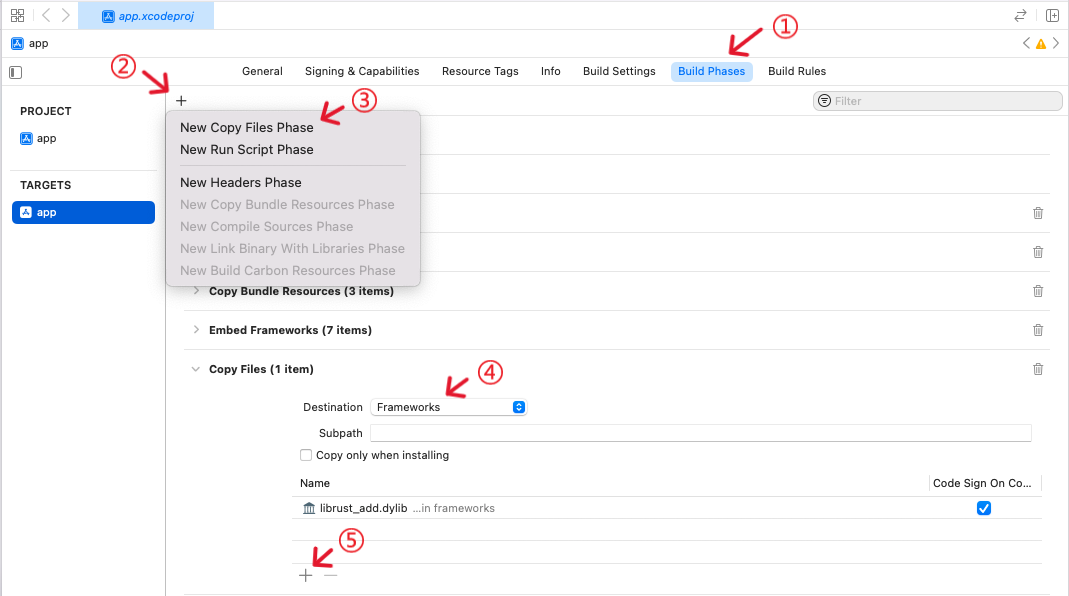
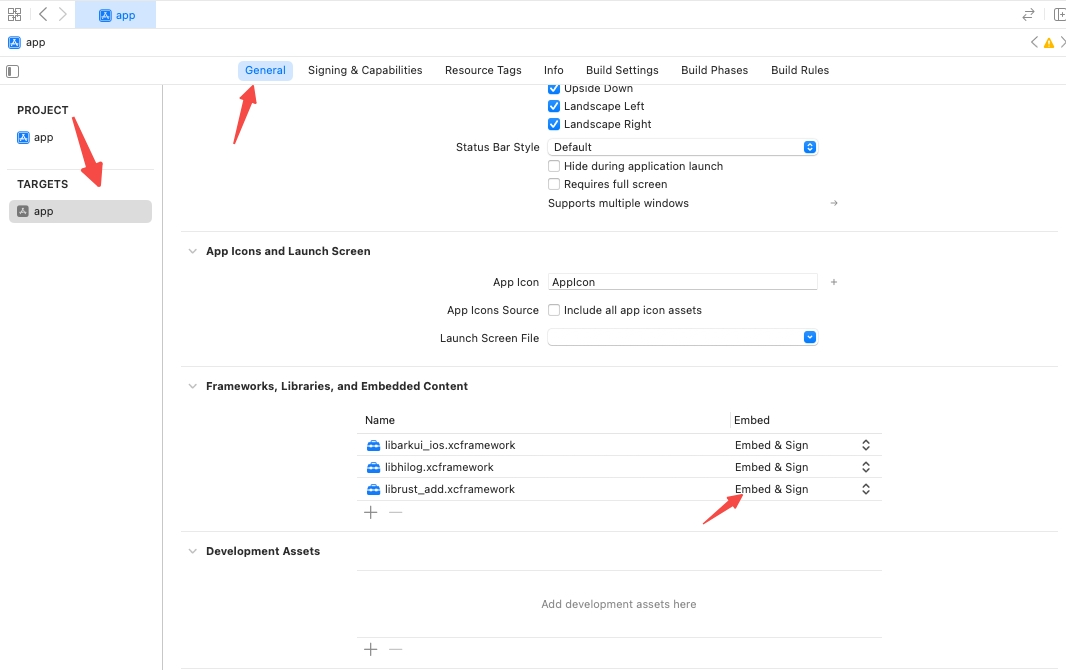
添加将librust_add.dylib转换为xcframework方法

diff --git a/RustFeature/Rust/RustDev/README.md b/RustFeature/Rust/RustDev/README.md
@@ -418,7 +418,7 @@ fn main() {
         let framework_dir = Path::new(&manifest_dir)
             .join("../RustDev/.arkui-x/ios/frameworks/libarkui_ios.xcframework");
 
-        let platform_subdir = if target.contains("simulator") {
+        let platform_subdir = if target.contains("sim") {
             "ios-arm64_x86_64-simulator"
         } else {
             "ios-arm64"
@@ -449,19 +449,91 @@ cargo build --target aarch64-apple-ios --release
 rust工程/target/aarch64-apple-ios/release/librust_add.dylib
 ```
 
+生成模拟器dylib文件：
+
+``````shell
+cargo build --target aarch64-apple-ios-sim --release
+``````
+
+设置加载路径：
+
+``````shell
+# ios
+install_name_tool -id "@rpath/librust_add.framework/librust_add" \
+    target/aarch64-apple-ios/release/librust_add.dylib
+# sim
+install_name_tool -id "@rpath/librust_add.framework/librust_add" \               
+    target/aarch64-apple-ios-sim/release/librust_add.dylib
+``````
+
+生成framework文件：
+
+``````shell
+mkdir -p librust_add.framework # 创建真机framework
+cp target/aarch64-apple-ios/release/librust_add.dylib \
+   librust_add.framework/librust_add # 将真机的dylib复制到framework文件夹内，注意去掉.dylib后缀
+mkdir -p sim/librust_add.framework # 创建模拟器framework
+cp target/aarch64-apple-ios-sim/release/librust_add.dylib \
+   sim/librust_add.framework/librust_add # 将模拟器的dylib复制到framework文件夹内，注意去掉.dylib后缀
+``````
+
+分别在两个framework文件夹内创建Info.plist文件，添加一下内容：
+
+``````xml
+<?xml version="1.0" encoding="UTF-8"?>
+<!DOCTYPE plist PUBLIC "-//Apple//DTD PLIST 1.0//EN" "http://www.apple.com/DTDs/PropertyList-1.0.dtd">
+<plist version="1.0">
+<dict>
+	<key>CFBundleIdentifier</key>
+	<string>ohos.ace.librustadd</string>
+	<key>CFBundleVersion</key>
+	<string>1.0.0</string>
+	<key>CFBundleExecutable</key>
+	<string>librust_add</string>
+	<key>CFBundlePackageType</key>
+	<string>FMWK</string>
+	<key>CFBundleDevelopmentRegion</key>
+	<string>en</string>
+	<key>CFBundleDisplayName</key>
+	<string>librust_add</string>
+	<key>CFBundleInfoDictionaryVersion</key>
+	<string>6.0</string>
+	<key>CFBundleShortVersionString</key>
+	<string>6.0.0</string>
+	<key>ClangVersion</key>
+	<string>b&apos;clang version 16.0.5&apos;</string>
+	<key>MiniXEngineVerson</key>
+	<string>1.0.0</string>
+	<key>MinimumOSVersion</key>
+	<string>10.0</string>
+</dict>
+</plist>
+``````
+
+生成xcframework文件：
+
+``````shell
+xcodebuild -create-xcframework \
+  -framework librust_add.framework \
+  -framework sim/librust_add.framework \
+  -output librust_add.xcframework
+``````
+
+
+
 **备注：在iOS工程中引入的libarkui_ios.xcframework与rust依赖的libarkui_ios.xcframework必须是同一个。**
 
-4、拷贝rust生成的librust_add.dylib到ArkUI-X工程目录：
+4、拷贝rust生成的librust_add.xcframework到ArkUI-X工程目录：
 
 				ArkUI-X工程/.arkui-x/ios/frameworks
 
-5、把.arkui-x/ios/frameworks目录的librust_add.dylib放到iOS的工程当中（Frameworks目录）导入动态库到应用中
+5、把.arkui-x/ios/frameworks目录的librust_add.xcframework放到iOS的工程当中（Frameworks目录）导入动态库到应用中
 
 ![](./screenshots/devices/iOS_add_dylib.png)
 
-6、打开项目的TARGETS，点击Build Phases 之后点击“+”按钮，点击菜单中的New Copy Files Phase以添加Copy Files。
+6、打开项目的TARGETS，点击General 之后下拉至Frameworks,Libraries,and Embedded Content。
 
-展开Copy Files，其中的Destination选择Frameworks，在Copy Files中添加librust_add.dylib，以便把动态库复制到Frameworks目录。
+找到librust_add.xcframework，Embed选项修改为Embed&Sign（原为Do Not Embed）。
 
 ![](./screenshots/devices/iOS_config_dylib.png)
 
